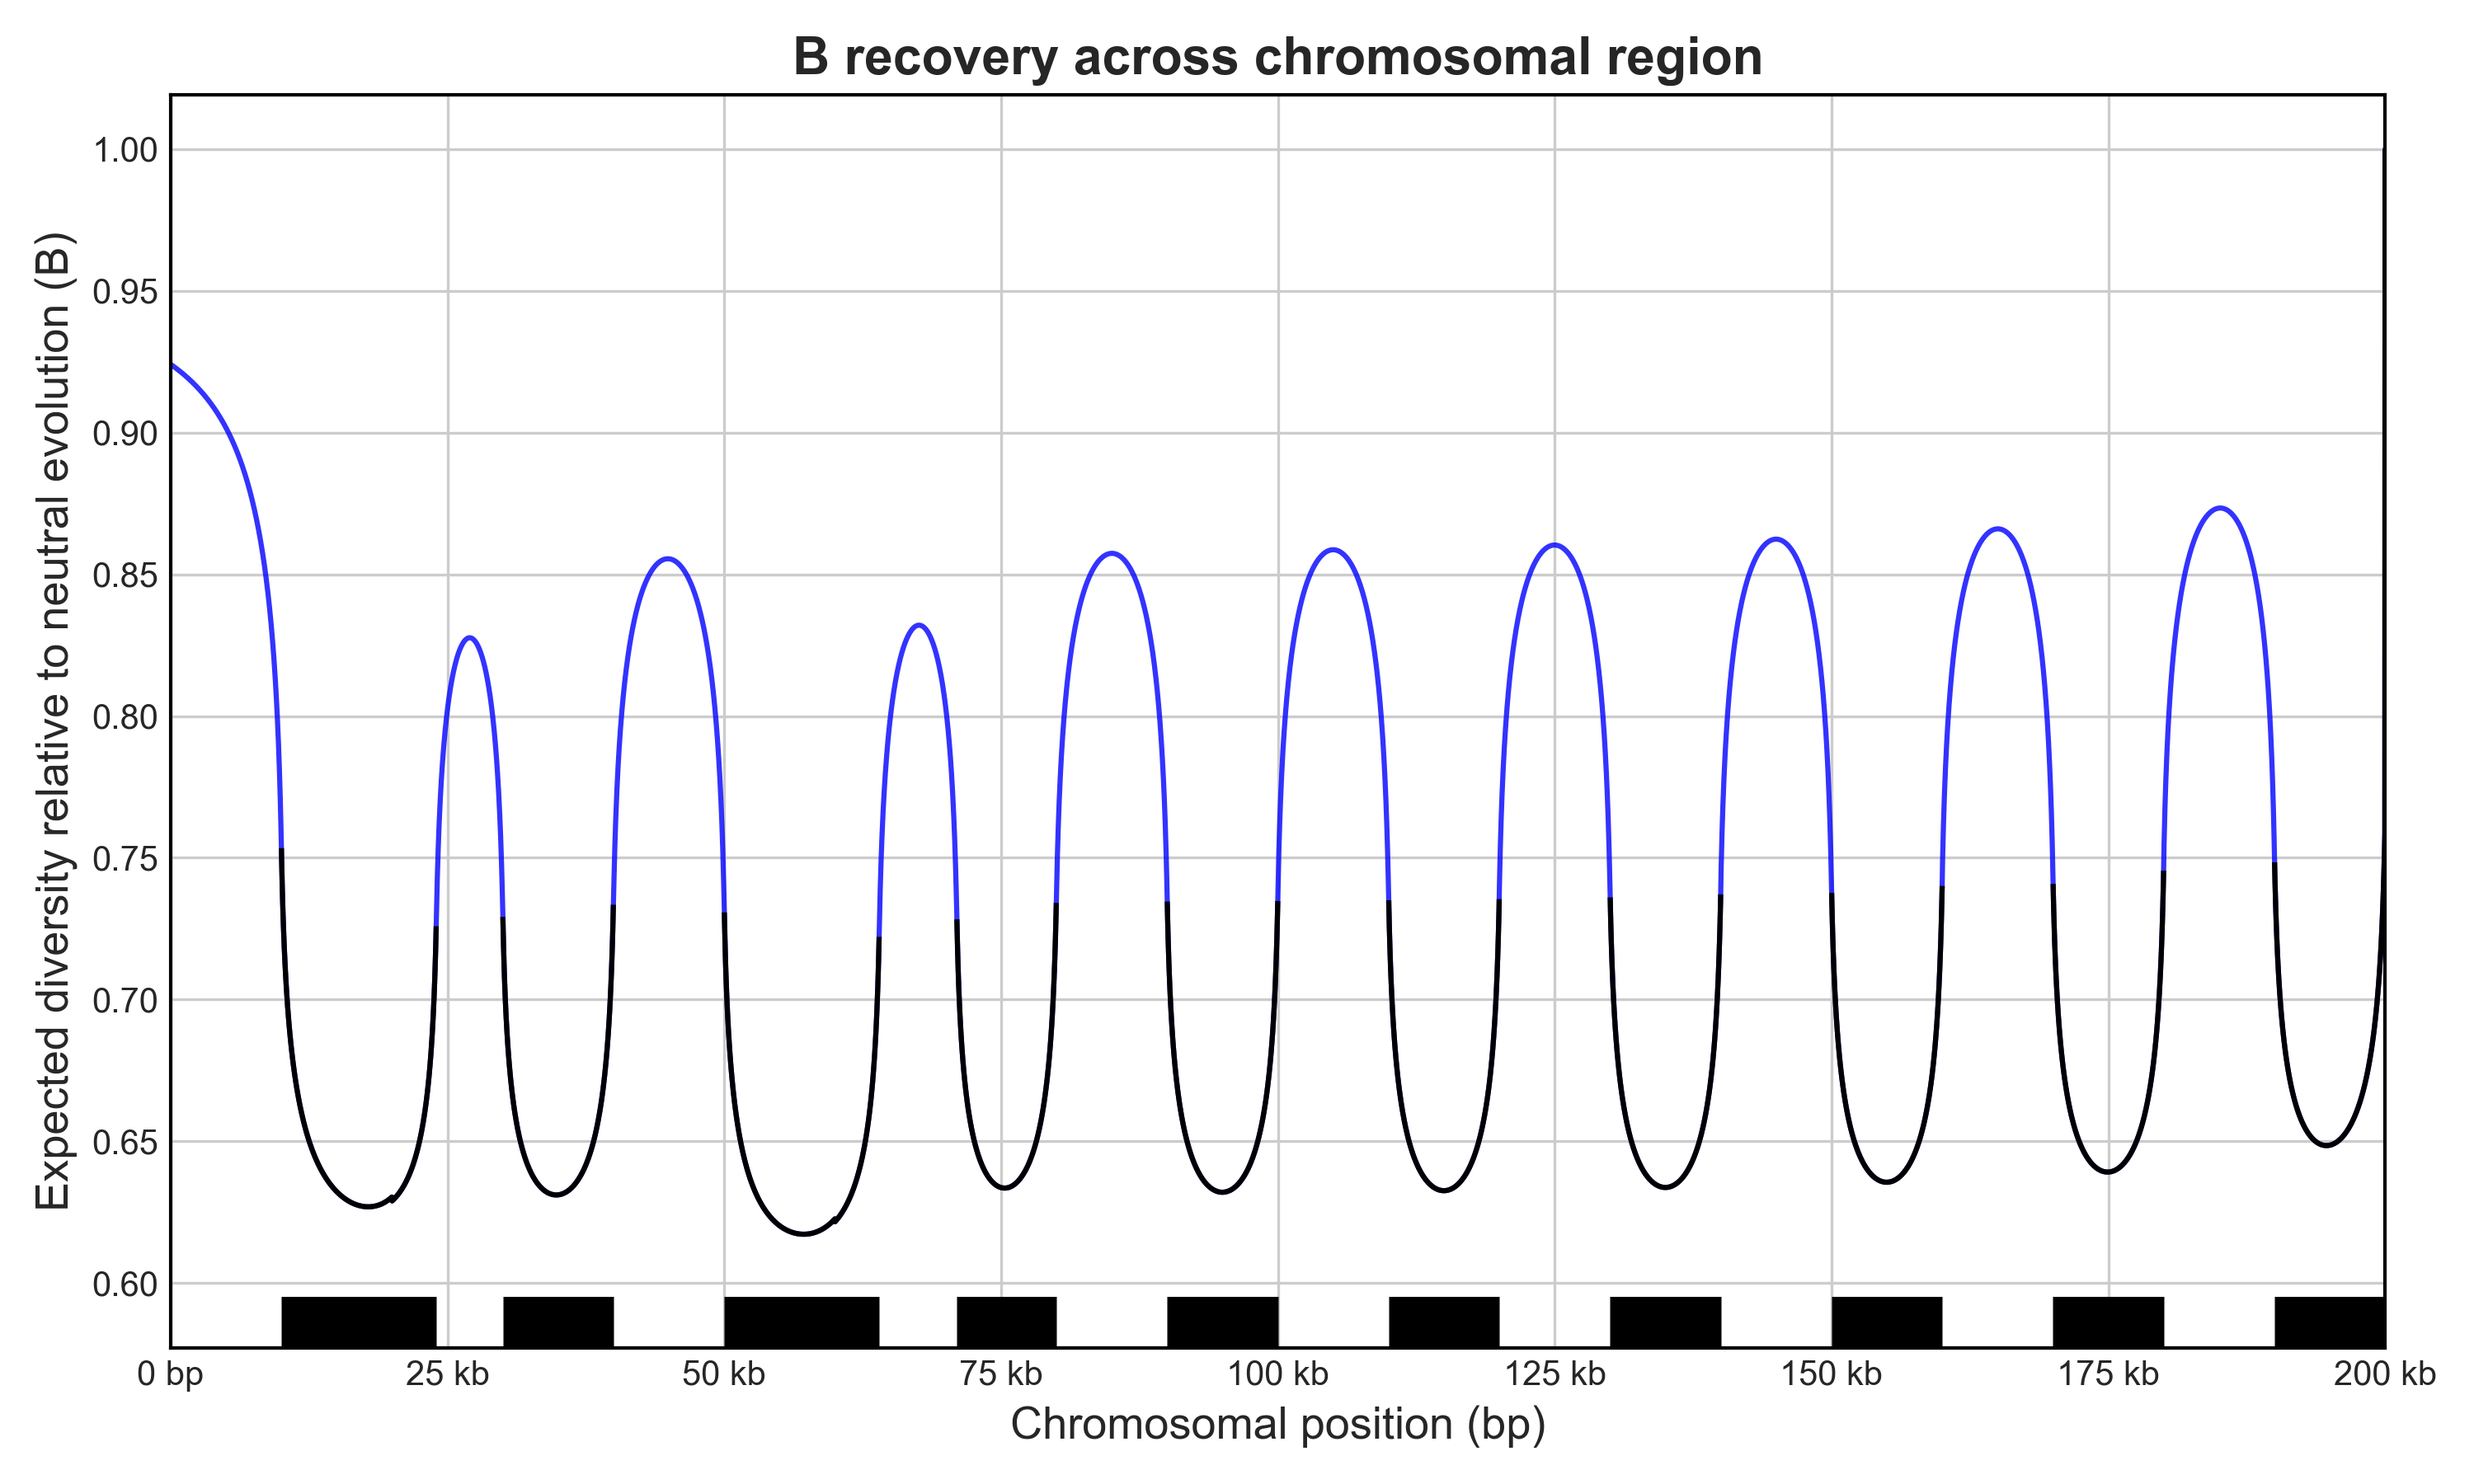
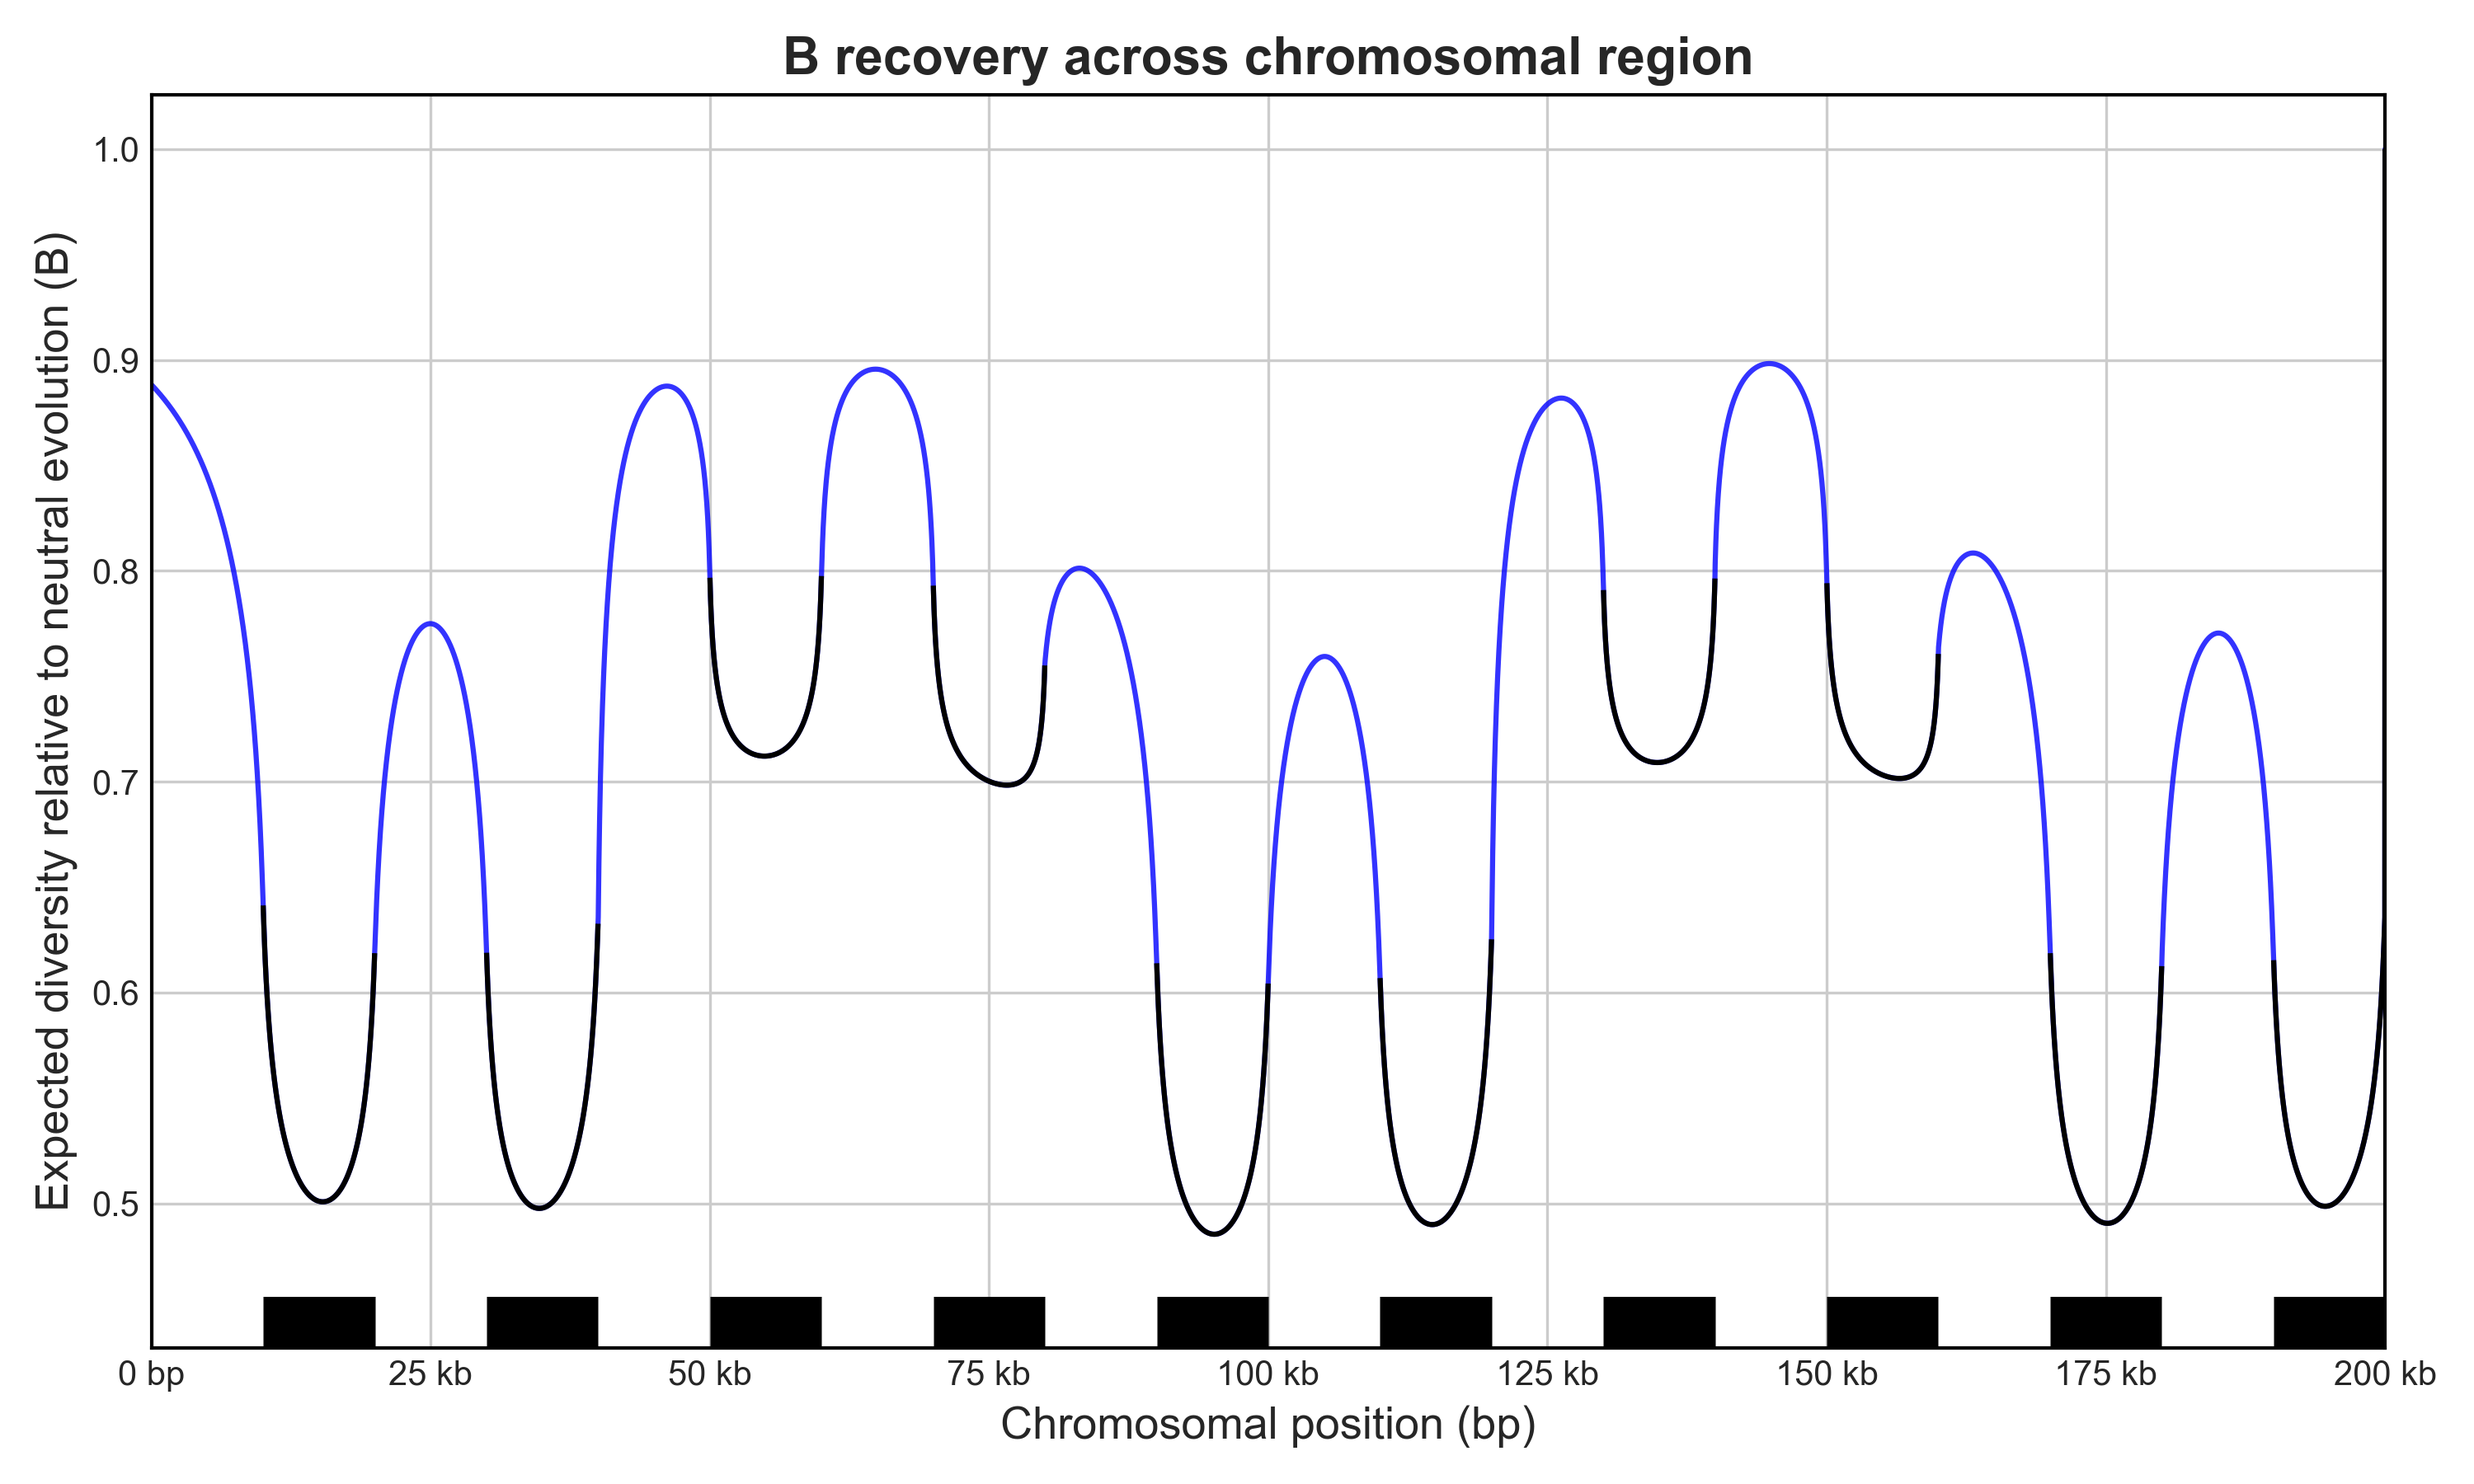
Add tests for genome with rec_map

diff --git a/tests/test_cli.py b/tests/test_cli.py
@@ -23,7 +23,7 @@ def test_cli_site_basic():
 def test_cli_region_basic(tmp_path):
     script = Path(__file__).resolve().parents[1] / "Bvalcalc.py"
     params = Path(__file__).resolve().parents[1] / "tests" / "testparams" / "nogcBasicParams.py"
-    output_path = tmp_path / "dfe_bvals.csv"  # Use tmp_path to avoid clobbering real files
+    output_path = tmp_path / "dfe_bvals.csv"
 
     result = subprocess.run(
         [sys.executable, str(script),
@@ -36,14 +36,9 @@ def test_cli_region_basic(tmp_path):
         text=True
     )
 
-    # Check CLI executed correctly
     assert result.returncode == 0, f"CLI failed:\n{result.stderr}"
-
-    # Check output file exists and is not empty
     assert output_path.exists(), "Expected output CSV was not created"
     assert output_path.stat().st_size > 0, "Output CSV is empty"
-
-    # Optional: check specific content
     contents = output_path.read_text()
     assert "Distance,B" in contents, "Output CSV does not contain expected header"
 
@@ -65,7 +60,7 @@ def test_cli_region_gcparams(tmp_path):
 
     assert result.returncode == 0, f"CLI failed:\n{result.stderr}"
     
-    out = result.stdout
+    out = result.stdout + result.stderr
     assert "= Calculating relative diversity (B) for a neutral region adjacent to a single selected element =" in out
     assert "Distribution of fitness effects (DFE): 40000bp" in out
     assert "Length of region under selection: 10000bp" in out
@@ -78,7 +73,7 @@ def test_cli_region_gcparams(tmp_path):
     assert "B at start and end of the neutral region" in out
     assert "====== P L O T T I N G . . . =======================" in out
     assert "Plot saved to region_plot.png" in out
-    assert f"Saved B values to: {output_path}" in out
+    assert f"Saved B values to: {output_path.as_posix()}" in out
     assert "= B value calculated" in out
 
 def test_cli_genome_basic(tmp_path):
@@ -94,14 +89,71 @@ def test_cli_genome_basic(tmp_path):
             "--bedgff_path", str(bed_path),
             "--chr_start", "1",
             "--chr_end", "200000",
-            "--out", str(output_path)],  # <- removed --silent
+            "--out", str(output_path)],
         capture_output=True,
         text=True
     )
 
+    assert result.returncode == 0, f"CLI failed:\n{result.stderr}"
+    out = result.stdout + result.stderr
+    assert "Cumulative length of regions under selection: 99990bp" in out
+    assert "Mean B of neutral sites across genome: 0.7536950198115279" in out
+    assert output_path.exists(), "Expected output file not created"
+    assert output_path.stat().st_size > 0, "Output file is empty"
+
+def test_cli_genome_gcparams(tmp_path):
+    script = Path(__file__).resolve().parents[1] / "Bvalcalc.py"
+    params = Path(__file__).resolve().parents[1] / "tests" / "testparams" / "gcBasicParams.py"
+    bed_path = Path(__file__).resolve().parents[1] / "tests" / "testfiles" / "200kb_slimtest.csv"
+    output_path = tmp_path / "gc_bvals.bvals"
+
+    result = subprocess.run(
+        [sys.executable, str(script),
+         "--genome",
+         "--pop_params", str(params),
+         "--bedgff_path", str(bed_path),
+         "--chr_start", "1",
+         "--chr_end", "200000",
+         "--plot_output",
+         "--out", str(output_path)],
+        capture_output=True,
+        text=True
+    )
 
     assert result.returncode == 0, f"CLI failed:\n{result.stderr}"
+    out = result.stdout + result.stderr
+    assert "====== R E S U L T S ====== S U M M A R Y ==========" in out
+    assert "Cumulative length of regions under selection: 99990bp (50.0%)" in out
+    assert "Mean B of neutral sites across genome: 0.8363486111505146" in out
+    assert output_path.exists(), "Expected output file not created"
+    assert output_path.stat().st_size > 0, "Output file is empty"
 
-    out = result.stdout
-    assert "Cumulative length of regions under selection: 106994bp" in out
-    assert "Mean B of neutral sites across genome: 0.738525356400387" in out
+def test_cli_genome_with_recmap_plot(tmp_path):
+    script = Path(__file__).resolve().parents[1] / "Bvalcalc.py"
+    params = Path(__file__).resolve().parents[1] / "tests" / "testparams" / "nogcBasicParams.py"
+    bed_path = Path(__file__).resolve().parents[1] / "tests" / "testfiles" / "200kb_slimtest.csv"
+    map_path = Path(__file__).resolve().parents[1] / "tests" / "testfiles" / "200kb.map"
+    output_path = tmp_path / "200kb_dfe5.bvals"
+
+    result = subprocess.run(
+        [sys.executable, str(script),
+         "--genome",
+         "--pop_params", str(params),
+         "--bedgff_path", str(bed_path),
+         "--chr_start", "1",
+         "--chr_end", "200000",
+         "--plot_output",
+         "--rec_map", str(map_path),
+         "--out", str(output_path)],
+        capture_output=True,
+        text=True
+    )
+
+    assert result.returncode == 0, f"CLI failed:\n{result.stderr}"
+    out = result.stdout + result.stderr
+    assert "Cumulative length of regions under selection: 99990bp (50.0%)" in out
+    assert "Mean B of neutral sites across genome: 0.7015865287738964" in out
+    assert "Plot saved to genome_plot.png" in out
+    assert f"Saved B values to: {output_path.as_posix()}" in out
+    assert output_path.exists(), "Expected output file not created"
+    assert output_path.stat().st_size > 0, "Output file is empty"
